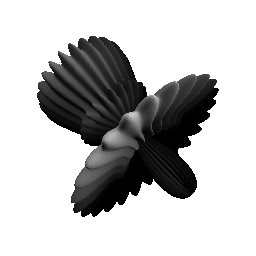
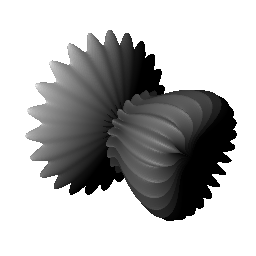
Update spherical harmonics example

diff --git a/examples/render_mesh.py b/examples/render_mesh.py
@@ -1,0 +1,35 @@
+import numpy as np
+import matplotlib.pyplot as plt
+
+from simple_3dviz.renderables import Mesh
+from simple_3dviz.behaviours.keyboard import SnapshotOnKey
+from simple_3dviz.window import show
+
+
+if __name__ == "__main__":
+    dphi, dtheta = np.pi/250.0, np.pi/250.0
+    [phi, theta] = np.mgrid[0:np.pi+dphi*1.5:dphi, 0:2*np.pi+dtheta*1.5:dtheta]
+    m0 = 4; m1 = 3; m2 = 2; m3 = 3; m4 = 6; m5 = 2; m6 = 6; m7 = 4;
+    r = np.sin(m0 * phi)**m1 + np.cos(m2 * phi)**m3
+    r = r + np.sin(m4 * theta)**m5 + np.cos(m6 * theta)**m7
+    x = r * np.sin(phi) * np.cos(theta)
+    y = r * np.cos(phi)
+    z = r * np.sin(phi) * np.sin(theta)
+    m = Mesh.from_xyz(x, y, z)
+    show(
+        m,
+        camera_position=(0, 2.32, 2.47),
+        up_vector=( -0.7265758,-0.35081482,0.12523057),
+        behaviours=[SnapshotOnKey()],
+        size=(256,256)
+    )
+
+    # It is also possible to load a mesh with a colormap
+    m = Mesh.from_xyz(x, y, z, colormap=plt.cm.jet)
+    show(
+        m,
+        camera_position=(0, 2.32, 2.47),
+        up_vector=( -0.7265758,-0.35081482,0.12523057),
+        behaviours=[SnapshotOnKey()],
+        size=(256,256)
+    )

diff --git a/docs/data_loading.md b/docs/data_loading.md
@@ -47,13 +47,15 @@ or using a set of vertices and normals.
 # Let us visualize a spherical harmonic as a surface similar to
 # https://docs.enthought.com/mayavi/mayavi/mlab.html
 >>> import numpy as np
->>> dphi, dtheta = pi/250.0, pi/250.0
->>> [phi, theta] = mgrid[0:pi+dphi*1.5:dphi, 0:2*pi+dtheta*1.5:dtheta]
+>>> dphi, dtheta = np.pi/250.0, np.pi/250.0
+>>> [phi, theta] = np.mgrid[0:np.pi+dphi*1.5:dphi, 0:2*np.pi+dtheta*1.5:dtheta]
 >>> m0 = 4; m1 = 3; m2 = 2; m3 = 3; m4 = 6; m5 = 2; m6 = 6; m7 = 4;
->>> r = sin(m0*phi)**m1 + cos(m2*phi)**m3 + sin(m4*theta)**m5 + cos(m6*theta)**m7
->>> x = r*sin(phi)*cos(theta)
->>> y = r*cos(phi)
->>> z = r*sin(phi)*sin(theta)
+>>> r = np.sin(m0 * phi)**m1 + np.cos(m2 * phi)**m3
+>>> r = r + np.sin(m4 * theta)**m5 + np.cos(m6 * theta)**m7
+>>> x = r * np.sin(phi) * np.cos(theta)
+>>> y = r * np.cos(phi)
+>>> z = r * np.sin(phi) * np.sin(theta)
+
 >>> m = Mesh.from_xyz(x, y, z)
 
 # It is also possible to load a mesh with a colormap
